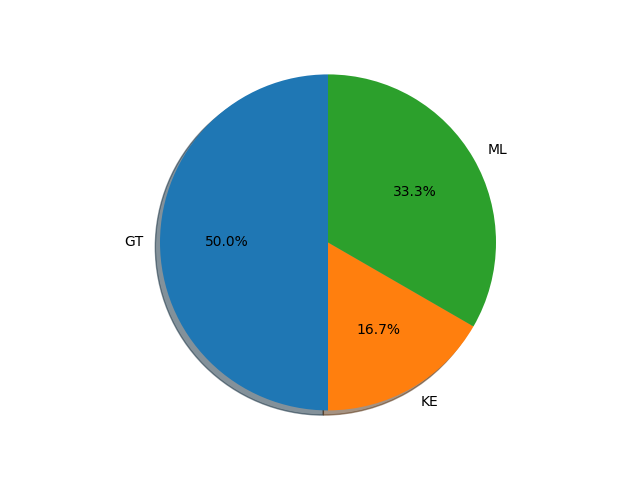
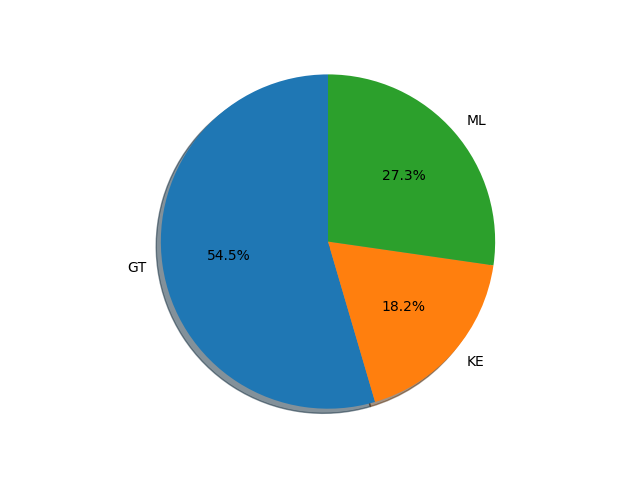
added some more papers

diff --git a/README.md b/README.md
@@ -14,6 +14,11 @@ Systems that incorporate more than one procees are categorized as `integrated`.
 ## Level
 |Year|Title|Authors|Approach|Resources|
 |---|---|---|---|---|
+|2009|[Automatic gain and fader control for live mixing](https://www.researchgate.net/publication/224086775_Automatic_gain_and_fader_control_for_live_mixing)|E. Perez Gonzalez and J. D. Reiss|GT|No|
+|2009|[Automatic equalization of multichannel audio using cross-adaptive methods](https://www.researchgate.net/publication/277836816_Automatic_Equalization_of_Multichannel_Audio_Using_Cross-Adaptive_Methods)|E. Perez Gonzalez and J. D. Reiss|GT|No|
+|2009|[Automatic monitor mixing for live musical performance](http://www.aes.org/e-lib/browse.cfm?elib=15229)|M. J. Terrell and J. D. Reiss|KE|No|
+|2008|[An automatic maximum gain normalization technique with applications to audio mixing](http://www.aes.org/e-lib/browse.cfm?elib=14541)|E. Perez Gonzalez and J. D. Reiss|GT|No|
+|2008|[A Framework for Automatic Mixing Using Timbral Similarity Measures and Genetic Optimization](http://www.aes.org/e-lib/browse.cfm?elib=14626)|B. Kolasinski|ML|[Yes](http://www.nyu.edu/projects/mtr/)|
 ## Panning
 |Year|Title|Authors|Approach|Resources|
 |---|---|---|---|---|
